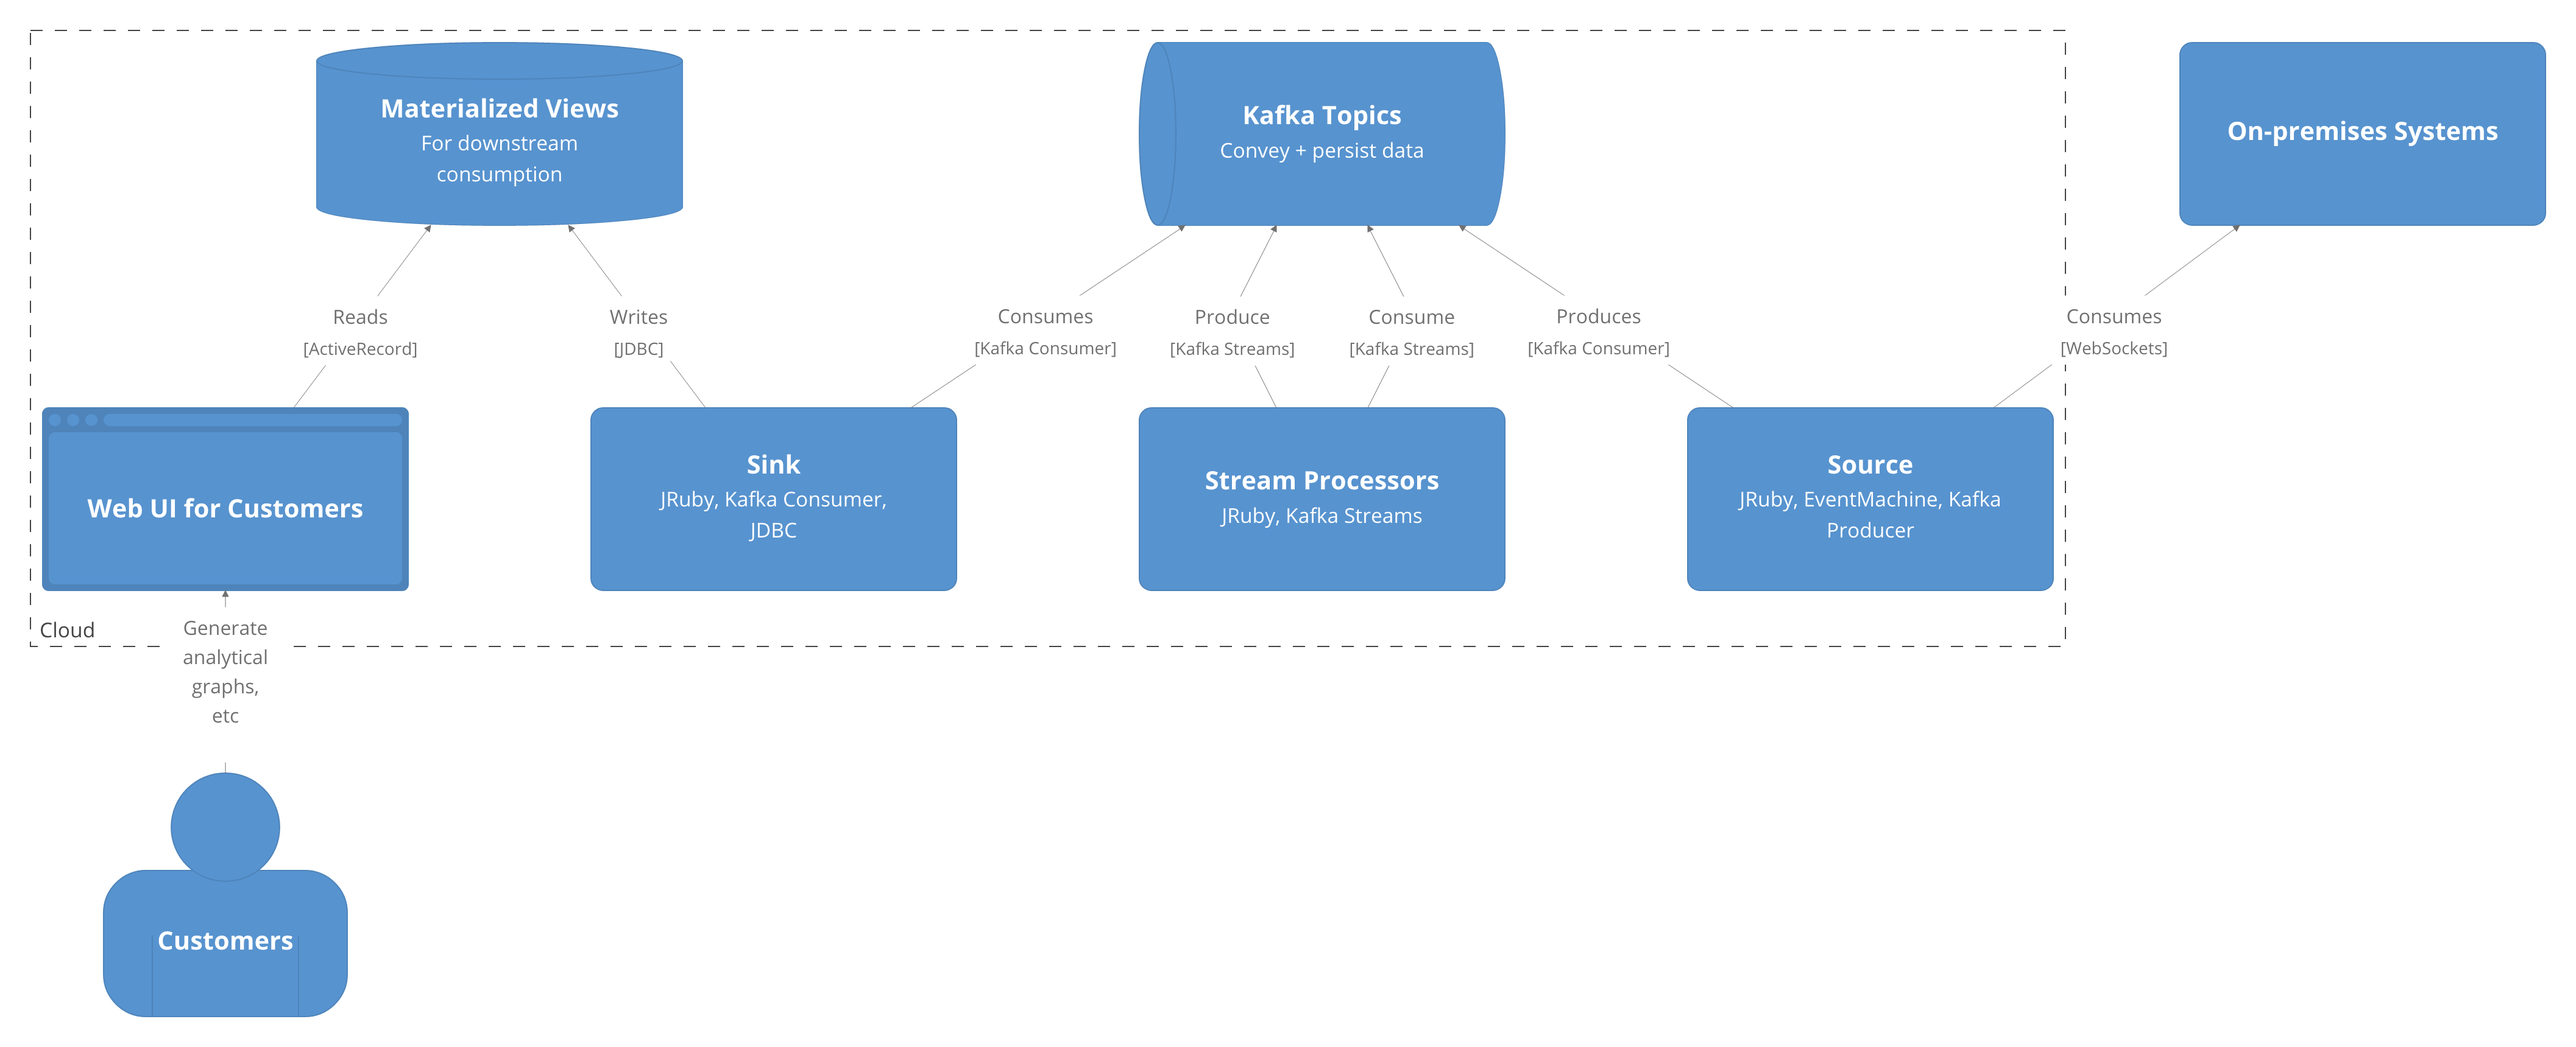
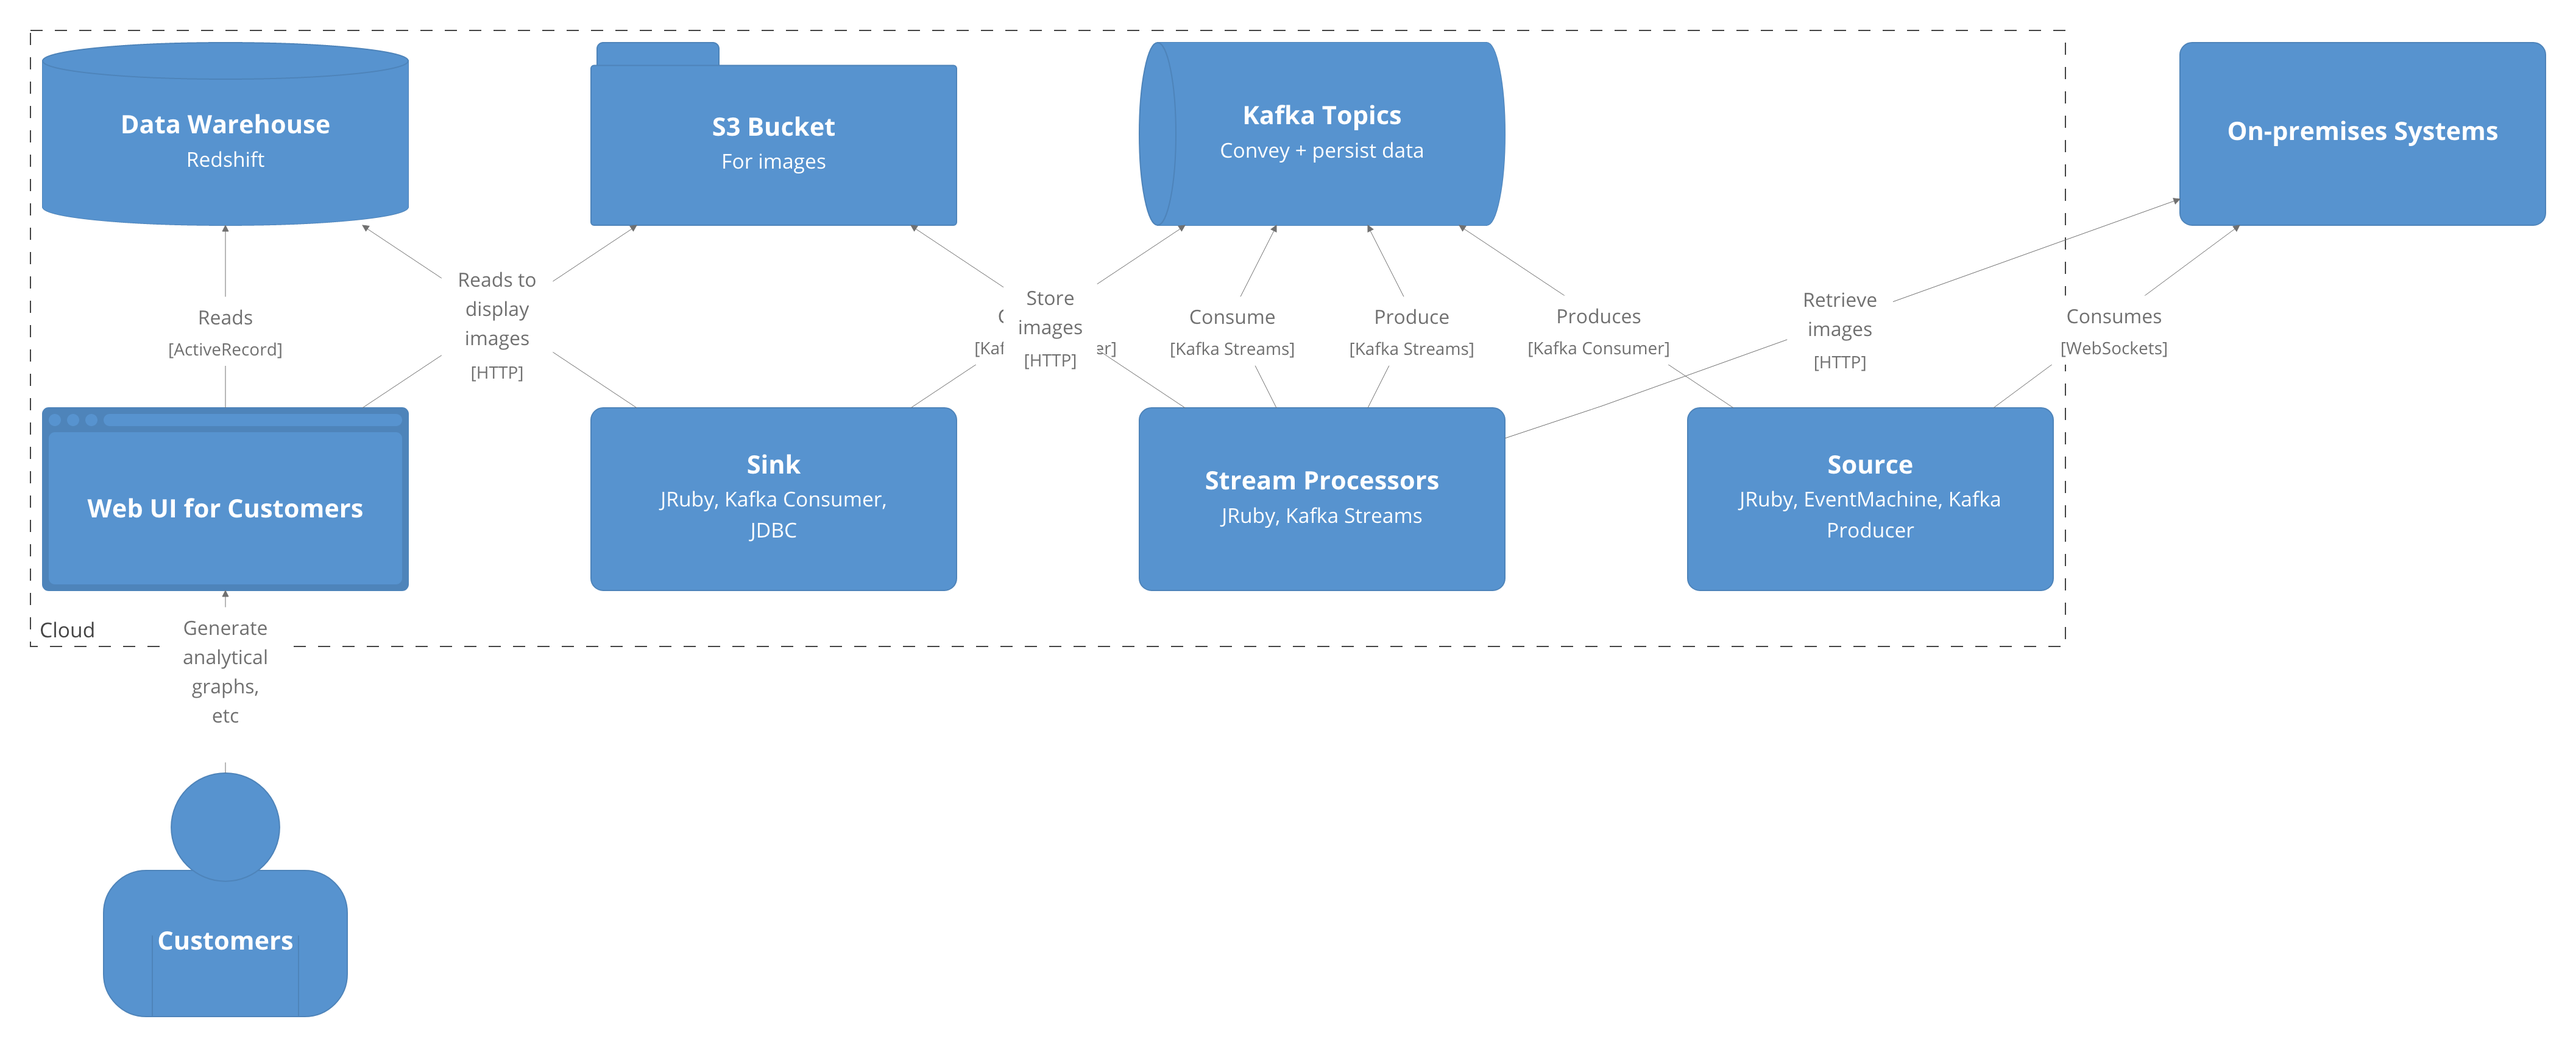
WIP++

diff --git a/stream-processing-kafka-streams-ruby/Stream Processing with Kafka Streams and Ruby by Avi Flax (Deckset).md b/stream-processing-kafka-streams-ruby/Stream Processing with Kafka Streams and Ruby by Avi Flax (Deckset).md
@@ -49,6 +49,7 @@ A **Parking Guidance & Information** (PGI) system
 Hundreds of customers using that cloud-based Web app
 
 ----
+[.text: text-scale(1.4)]
 
 ## Analytics Pipeline
 
@@ -65,36 +66,55 @@ Hundreds of customers using that cloud-based Web app
 • But there were a lot of details that made it not so simple
 
 ----
+[.text: text-scale(1.4)]
 
 ## Problems
 
 * High latency
 * Low reliability
 
-## Goals
-
-* **Low** latency
-* **High** reliability
-
 ^
 • The old pipeline had some big problems «reveal»
 • Basically, it’d been designed and implemented when the number of customers was much smaller;
   • as the customer base grew it’d hit its scaling limit and was now overdue to be refactored.
-• 1 nice thing; goals of new pipeline very clear: «reveal»
+
+
+----
+[.text: text-scale(1.4)]
+
+## Primary Goals
+
+* ~~High~~ **Low** latency
+* ~~Low~~ **High** reliability
+
+## Secondary Goals
+
+* More events
+* Retrieve images
+
+^
+• 1 nice thing; main goals of new pipeline very clear: «reveal»
+• Secondary goals were new features; were impossible with old pipeline «reveal»
 
 ----
 
 ## Design + Technology Choices
 
 ----
+[.text: text-scale(2.0)]
 
-![old diagram fit](images/old-system-landscape-slide.png)
+**Old**
+
+![old diagram original fit](images/old-system-landscape.png)
 
 ^
 • Basically just a set of cron scripts that polled the on-prem servers on a fixed schedule
 
 ----
+[.text: text-scale(2.0)]
 
-![new diagram fit](images/new-system-landscape-slide.png)
+**New**
+
+![new diagram original fit](images/new-system-landscape.png)
 
 ----
